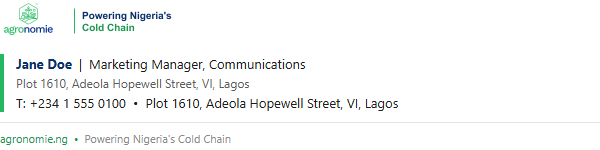
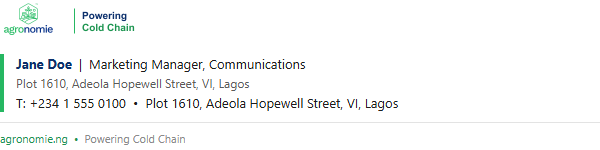
Refine taglines and spacing per feedback
- Agronomie: shorten tagline to "Powering Cold Chain"
- GroSolar: tagline changed to "Financing the Solar Future" (reflects solar financing, user-directed not invented)
- Regenloop: tagline changed to "Turning Waste Into Clean Energy" (more specific to biogas/circular-economy positioning)
- Meshworks: added vertical spacing between logo lockup and tagline in the banner

Changed region(s): [[0.21, 0.88, 0.39, 0.96], [0.21, 0.08, 0.3, 0.1333]]

diff --git a/source-assets/gen-banners-round2.js b/source-assets/gen-banners-round2.js
@@ -1,0 +1,119 @@
+// Round-2 tagline/spacing fixes for Agronomie, GroSolar, Regenloop, Meshworks.
+// Run with: node gen-banners-round2.js
+const sharp = require('sharp');
+const path = require('path');
+const fs = require('fs');
+
+const FUNDCO = path.resolve(__dirname, '../../Fundco');
+const EXPORT = path.resolve(__dirname, '..', 'export');
+
+function textSvg(w, h, parts) {
+  return Buffer.from(`<svg xmlns="http://www.w3.org/2000/svg" width="${w}" height="${h}">${parts}</svg>`);
+}
+
+async function buildBanner({ canvasW, canvasH, logoBuffer, logoW, logoH, logoTop, logoLeft, extraSvgParts, outBase }) {
+  const scale = async (mult) => {
+    const cw = canvasW * mult, ch = canvasH * mult;
+    const lw = logoW * mult, lh = logoH * mult;
+    const top = (logoTop !== undefined ? logoTop : (canvasH - logoH) / 2) * mult;
+    const left = (logoLeft !== undefined ? logoLeft : 0) * mult;
+    const logoResized = await sharp(logoBuffer).resize({ width: Math.round(lw), height: Math.round(lh), fit: 'fill' }).png().toBuffer();
+    const overlayPng = await sharp(textSvg(cw, ch, extraSvgParts(mult))).png().toBuffer();
+    const canvas = sharp({ create: { width: Math.round(cw), height: Math.round(ch), channels: 4, background: { r: 0, g: 0, b: 0, alpha: 0 } } });
+    return canvas
+      .composite([
+        { input: logoResized, left: Math.round(left), top: Math.round(top) },
+        { input: overlayPng, left: 0, top: 0 },
+      ])
+      .png({ quality: 90, palette: true, compressionLevel: 9 })
+      .toBuffer();
+  };
+  const png1x = await scale(1);
+  const png2x = await scale(2);
+  fs.writeFileSync(path.join(EXPORT, `${outBase}.png`), png1x);
+  fs.writeFileSync(path.join(EXPORT, `${outBase}@2x.png`), png2x);
+  console.log(outBase, '1x', png1x.length, 'bytes', '2x', png2x.length, 'bytes');
+}
+
+(async () => {
+  // ---------- AGRONOMIE: shorten tagline to "Powering Cold Chain" ----------
+  {
+    const canvasW = 600, canvasH = 84;
+    const logoBuf = fs.readFileSync(path.join(FUNDCO, 'agronomie/public/images/agronomie-logo.png'));
+    const logoH = 70;
+    const logoW = Math.round(logoH * (1598 / 952));
+    const accentX = logoW + 30;
+    const textX = accentX + 16;
+    await buildBanner({
+      canvasW, canvasH, logoBuffer: logoBuf, logoW, logoH,
+      outBase: 'agronomie-ng-logo-signature',
+      extraSvgParts: (m) => `
+        <rect x="${accentX * m}" y="${17 * m}" width="${2 * m}" height="${50 * m}" fill="#26b762"/>
+        <text x="${textX * m}" y="${38 * m}" font-family="Arial, Helvetica, sans-serif" font-weight="700" font-size="${20 * m}" fill="#0b2f6b">Powering</text>
+        <text x="${textX * m}" y="${62 * m}" font-family="Arial, Helvetica, sans-serif" font-weight="700" font-size="${20 * m}" fill="#1c9450">Cold Chain</text>
+      `,
+    });
+  }
+
+  // ---------- GROSOLAR: swap tagline to "Financing the Solar Future" ----------
+  {
+    const canvasW = 600, canvasH = 80;
+    const svgSrc = path.join(FUNDCO, '_shared-logos/grosolar-logo.svg');
+    const rasterBuf = await sharp(svgSrc, { density: 600 }).png().toBuffer();
+    const meta = await sharp(rasterBuf).metadata();
+    const logoH = 56;
+    const logoW = Math.round(logoH * (meta.width / meta.height));
+    const dividerX = logoW + 20;
+    const textX = dividerX + 20;
+    await buildBanner({
+      canvasW, canvasH, logoBuffer: rasterBuf, logoW, logoH,
+      outBase: 'grosolar-ng-logo-signature',
+      extraSvgParts: (m) => `
+        <rect x="${dividerX * m}" y="${12 * m}" width="${1 * m}" height="${56 * m}" fill="#d9d9d9"/>
+        <text x="${textX * m}" y="${45 * m}" font-family="Arial, Helvetica, sans-serif" font-weight="400" font-size="${20 * m}" fill="#002554">Financing the Solar Future</text>
+      `,
+    });
+  }
+
+  // ---------- REGENLOOP: replace tagline with something more specific to biogas/circular economy ----------
+  {
+    const canvasW = 480, canvasH = 100;
+    const logoBuf = fs.readFileSync(path.join(FUNDCO, 'regenloop/public/images/regenloop-logo-full.png'));
+    const logoH = 56;
+    const logoW = Math.round(logoH * (1198 / 238));
+    const logoLeft = Math.round((canvasW - logoW) / 2);
+    await buildBanner({
+      canvasW, canvasH, logoBuffer: logoBuf, logoW, logoH, logoTop: 8, logoLeft,
+      outBase: 'regenloop-ng-logo-signature',
+      extraSvgParts: (m) => `
+        <text x="${(canvasW / 2) * m}" y="${86 * m}" text-anchor="middle" font-family="Arial, Helvetica, sans-serif" font-weight="700" font-size="${17 * m}" fill="#e8a33d">Turning Waste Into Clean Energy</text>
+      `,
+    });
+  }
+
+  // ---------- MESHWORKS: add breathing room between logo block and tagline ----------
+  {
+    const canvasW = 300, canvasH = 98; // was 88 -> +10px so the tagline has real air below the wordmark
+    const logoBuf = fs.readFileSync(path.join(FUNDCO, 'meshworks/public/meshworks-logo.jpg'));
+    // matte the light-gray ~#f7f7f7 background to white (matches round-1 treatment) then to transparent-safe white
+    const { data, info } = await sharp(logoBuf).raw().ensureAlpha().toBuffer({ resolveWithObject: true });
+    const out = Buffer.from(data);
+    const n = info.width * info.height;
+    for (let p = 0; p < n; p++) {
+      const i = p * info.channels;
+      const r = out[i], g = out[i + 1], b = out[i + 2];
+      if (r > 235 && g > 235 && b > 235) { out[i] = 255; out[i + 1] = 255; out[i + 2] = 255; }
+    }
+    const mattedBuf = await sharp(out, { raw: { width: info.width, height: info.height, channels: info.channels } }).png().toBuffer();
+    const logoH = 58; // slightly smaller than round-1's ~62 to make room for the extra gap without growing the canvas too much
+    const logoW = Math.round(logoH * (847 / 295));
+    const logoLeft = Math.round((canvasW - logoW) / 2);
+    await buildBanner({
+      canvasW, canvasH, logoBuffer: mattedBuf, logoW, logoH, logoTop: 4, logoLeft,
+      outBase: 'meshworks-ng-logo-signature',
+      extraSvgParts: (m) => `
+        <text x="${(canvasW / 2) * m}" y="${90 * m}" text-anchor="middle" font-family="Arial, Helvetica, sans-serif" font-weight="700" font-size="${15 * m}" fill="#1a5c3a">Power the Future with Meshworks</text>
+      `,
+    });
+  }
+})().catch((e) => { console.error(e); process.exit(1); });

diff --git a/source-assets/render-round2.js b/source-assets/render-round2.js
@@ -1,0 +1,52 @@
+const { chromium } = require('playwright-core');
+const path = require('path');
+const fs = require('fs');
+
+const ROOT = path.resolve(__dirname, '..');
+const TEMPLATES = path.join(ROOT, 'templates');
+const EXPORT = path.join(ROOT, 'export');
+const PREVIEWS = path.join(ROOT, 'previews');
+
+const SAMPLE = {
+  '%%DisplayName%%': 'Jane Doe',
+  '%%Title%%': 'Marketing Manager',
+  '%%Department%%': 'Communications',
+  '%%StreetAddress%%': 'Plot 1610, Adeola Hopewell Street, VI, Lagos',
+  '%%TelephoneNumber%%': '+234 1 555 0100',
+};
+
+const COMPANIES = [
+  { slug: 'agronomie-ng', token: 'AGRONOMIE_NG' },
+  { slug: 'grosolar-ng', token: 'GROSOLAR_NG' },
+  { slug: 'regenloop-ng', token: 'REGENLOOP_NG' },
+  { slug: 'meshworks-ng', token: 'MESHWORKS_NG' },
+];
+
+function toFileUrl(p) {
+  return 'file://' + p.split('\\').join('/');
+}
+
+(async () => {
+  const browser = await chromium.launch();
+  const page = await browser.newPage({ viewport: { width: 600, height: 900 } });
+  for (const { slug, token } of COMPANIES) {
+    let html = fs.readFileSync(path.join(TEMPLATES, `${slug}-footer.html`), 'utf8');
+    for (const [tok, val] of Object.entries(SAMPLE)) html = html.split(tok).join(val);
+    const logoUrl = toFileUrl(path.join(EXPORT, `${slug}-logo-signature@2x.png`));
+    html = html.split(`[LOGO_URL_${token}]`).join(logoUrl);
+    const wrapped = `<!doctype html><html><head><meta charset="utf-8"></head><body style="margin:0;padding:0;background:#ffffff;">${html}</body></html>`;
+    const localTmp = path.join(ROOT, `._tmp_preview_${slug}.html`);
+    fs.writeFileSync(localTmp, wrapped, 'utf8');
+    await page.goto(toFileUrl(localTmp));
+    await page.waitForTimeout(150);
+    const el = await page.evaluateHandle(() => document.body.firstElementChild);
+    const box = await el.asElement().boundingBox();
+    await page.screenshot({
+      path: path.join(PREVIEWS, `${slug}-footer-preview.png`),
+      clip: { x: 0, y: 0, width: 600, height: Math.ceil(box.y + box.height) + 4 },
+    });
+    console.log(slug, 'saved');
+    fs.unlinkSync(localTmp);
+  }
+  await browser.close();
+})().catch((e) => { console.error(e); process.exit(1); });

diff --git a/templates/grosolar-ng-footer.html b/templates/grosolar-ng-footer.html
@@ -1,5 +1,5 @@
 <!-- FTR-GROSOLAR-NG-V1 -->
-<!-- FLAG: grosolar.ng is an UNCONFIRMED placeholder domain (no live GroSolar site exists yet as of this build). The tagline "Solar Energy, Simplified" is this project's own invention (no live GroSolar copy exists) -- both are TBD and must be verified/replaced before this footer is treated as final. See README/MANIFEST TBD notes. -->
+<!-- FLAG: grosolar.ng is an UNCONFIRMED placeholder domain (no live GroSolar site exists yet as of this build) -- must be verified/replaced before this footer is treated as final. See README/MANIFEST TBD notes. Tagline "Financing the Solar Future" was user-directed (2026-09-15), not invented. -->
 <!-- Font fallback policy: GroSolar is pre-launch with no established brand font -- using a clean, neutral system sans (Arial, Helvetica, sans-serif) rather than inventing a brand-matching fallback. -->
 <!-- Company address: static line uses the FundCo group HQ "Plot 1610, Adeola Hopewell Street, VI, Lagos" (GroSolar is Nigeria/Lagos-based per its parent group, no independent site content to contradict this). %%StreetAddress%% below is the individual signer's own AD-profile address (may be blank) and is kept separate per spec rule 6. -->
 <!--[if mso]>

diff --git a/templates/agronomie-ng-footer.html b/templates/agronomie-ng-footer.html
@@ -32,7 +32,7 @@ T: %%TelephoneNumber%%&nbsp;&nbsp;&bull;&nbsp;&nbsp;Plot 1610, Adeola Hopewell S
 </tr>
 <tr>
 <td style="border-top:1px solid #e3e3e3;padding:8px 0 0 0;font-family:'Segoe UI',Arial,Helvetica,sans-serif;font-size:11px;line-height:15px;color:#1c9450;">
-<a href="https://agronomie.ng" style="color:#1c9450;text-decoration:none;">agronomie.ng</a>&nbsp;&nbsp;&bull;&nbsp;&nbsp;<span style="color:#8a8a8a;">Powering Nigeria's Cold Chain</span>
+<a href="https://agronomie.ng" style="color:#1c9450;text-decoration:none;">agronomie.ng</a>&nbsp;&nbsp;&bull;&nbsp;&nbsp;<span style="color:#8a8a8a;">Powering Cold Chain</span>
 </td>
 </tr>
 </table>

diff --git a/templates/meshworks-ng-footer.html b/templates/meshworks-ng-footer.html
@@ -12,7 +12,7 @@
 <table role="presentation" cellpadding="0" cellspacing="0" border="0" style="border-collapse:collapse;border:1px solid #e6e6e6;border-radius:8px;">
 <tr><td style="padding:8px 12px;">
 <!--<![endif]-->
-<img src="[LOGO_URL_MESHWORKS_NG]" width="300" height="88" alt="Meshworks Solar Limited" style="display:block;border:0;outline:none;text-decoration:none;">
+<img src="[LOGO_URL_MESHWORKS_NG]" width="300" height="98" alt="Meshworks Solar Limited" style="display:block;border:0;outline:none;text-decoration:none;">
 <!--[if mso]>
 </td></tr></table>
 <![endif]-->
